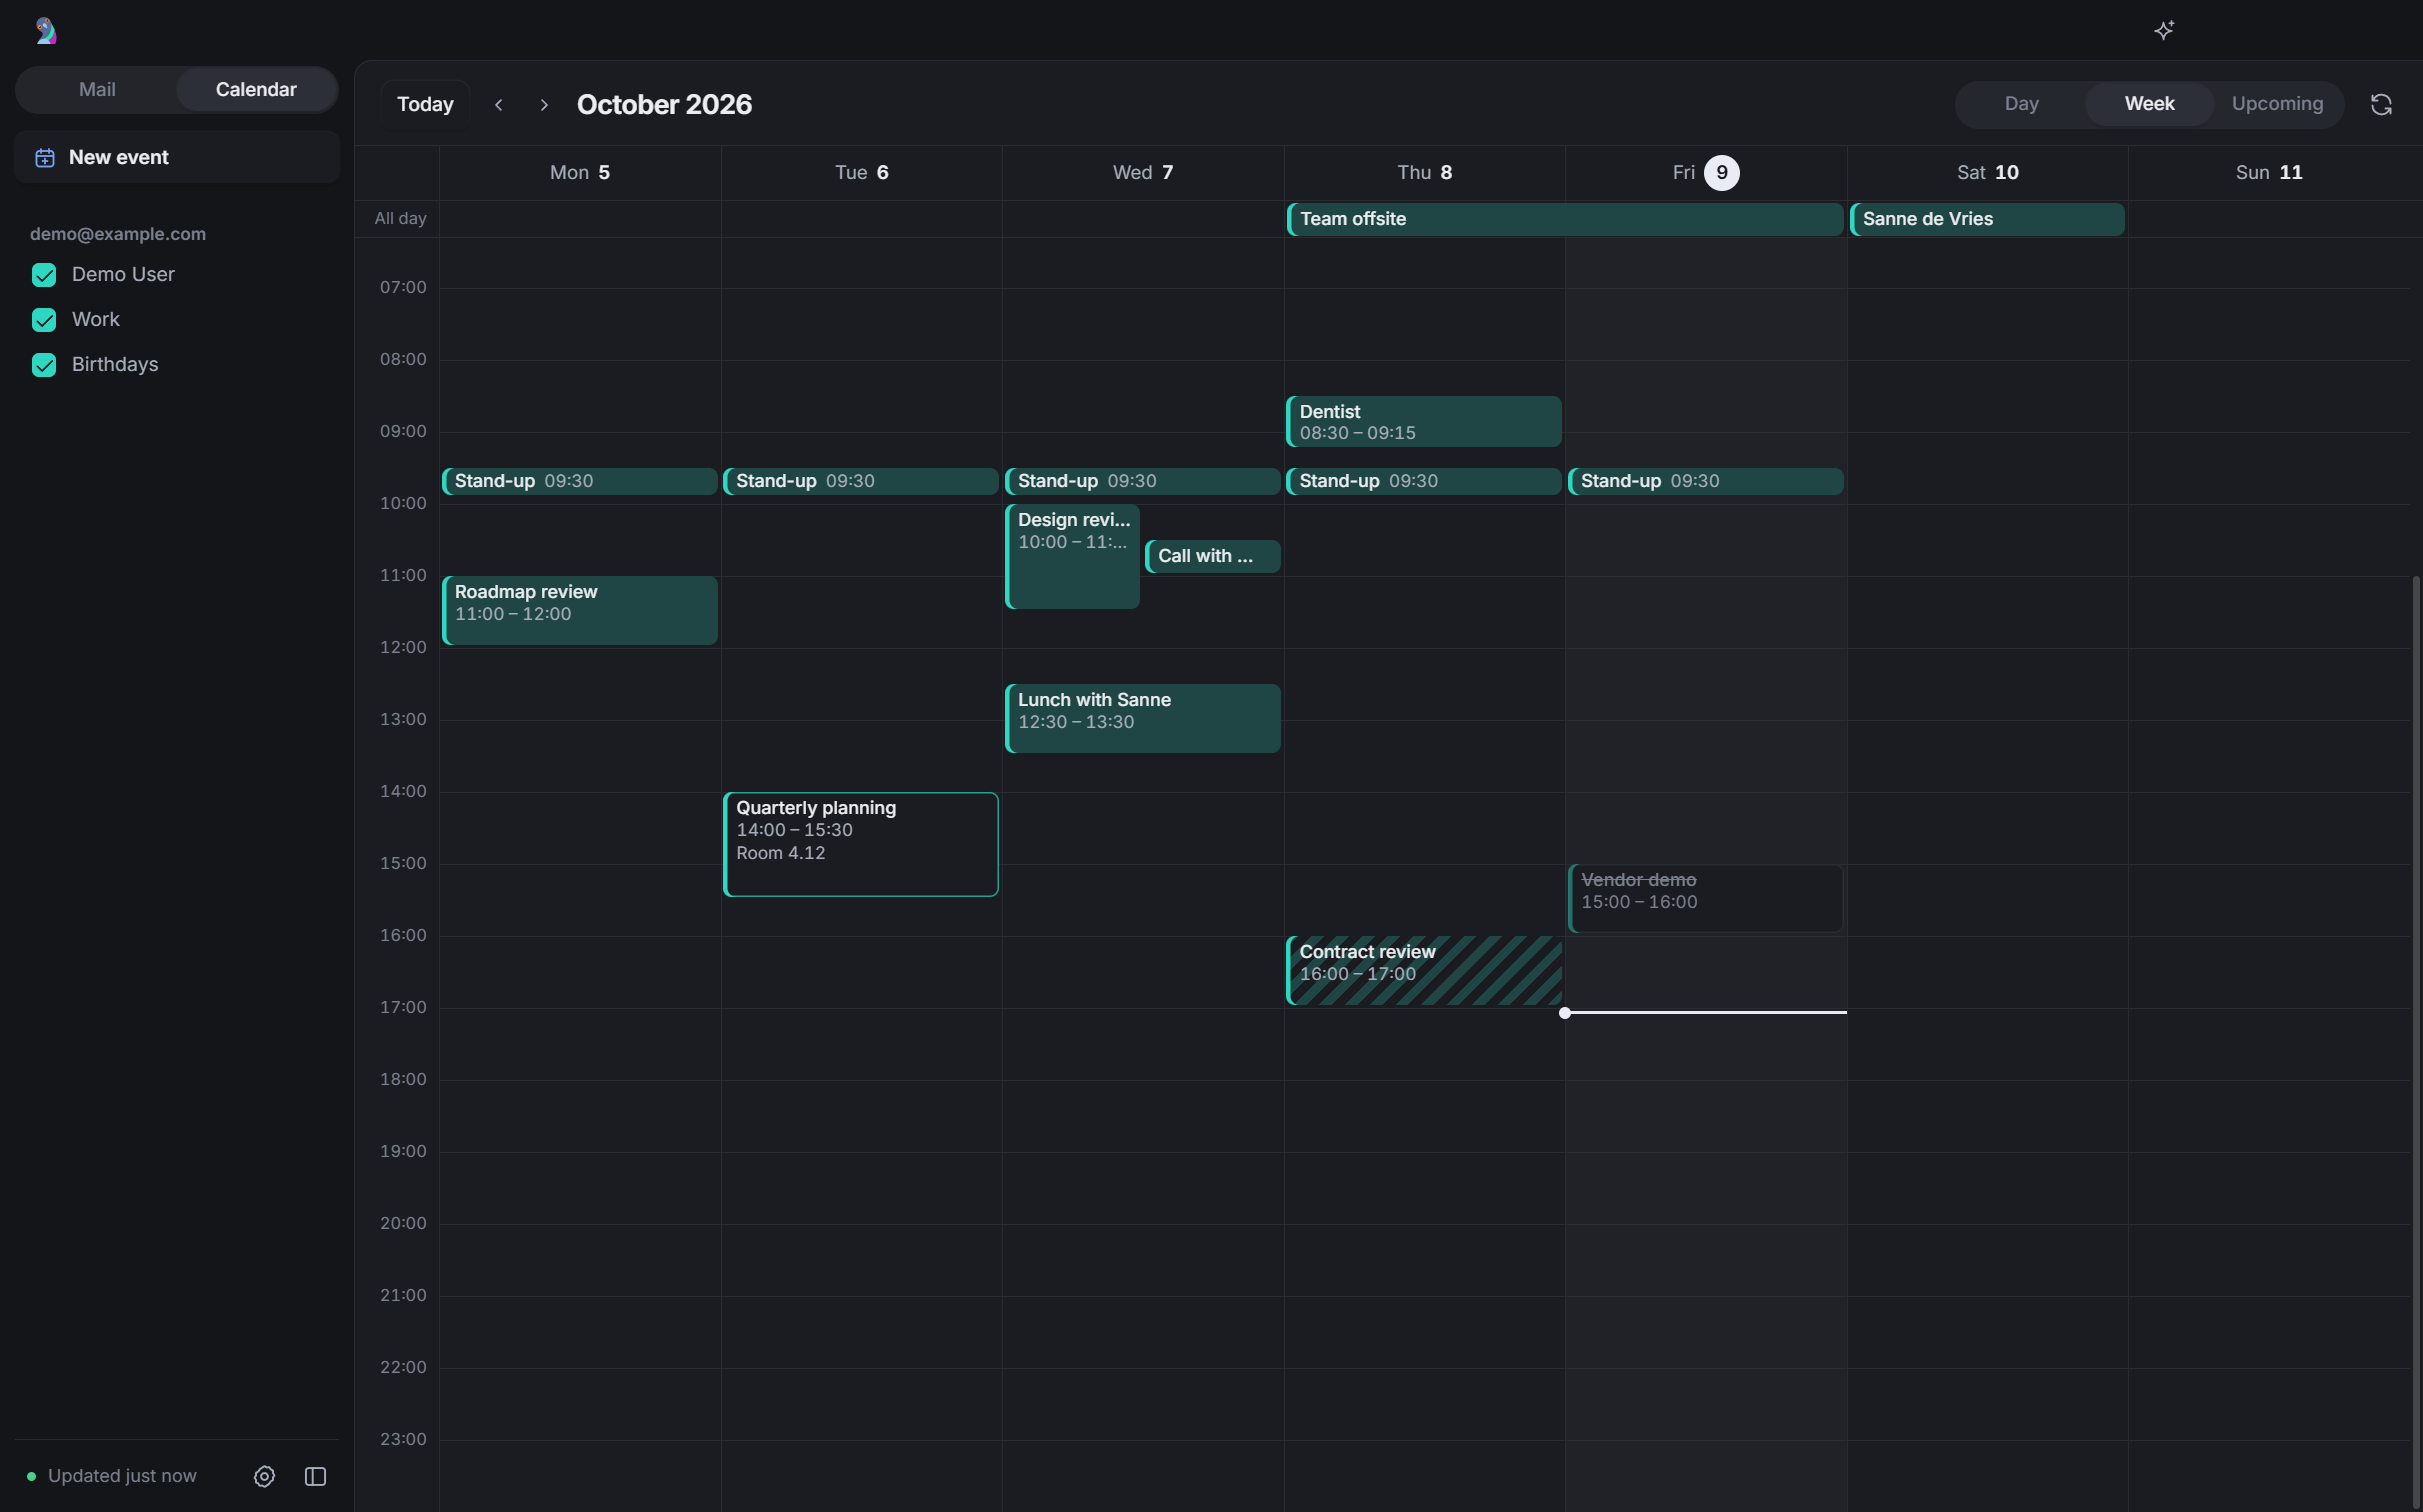
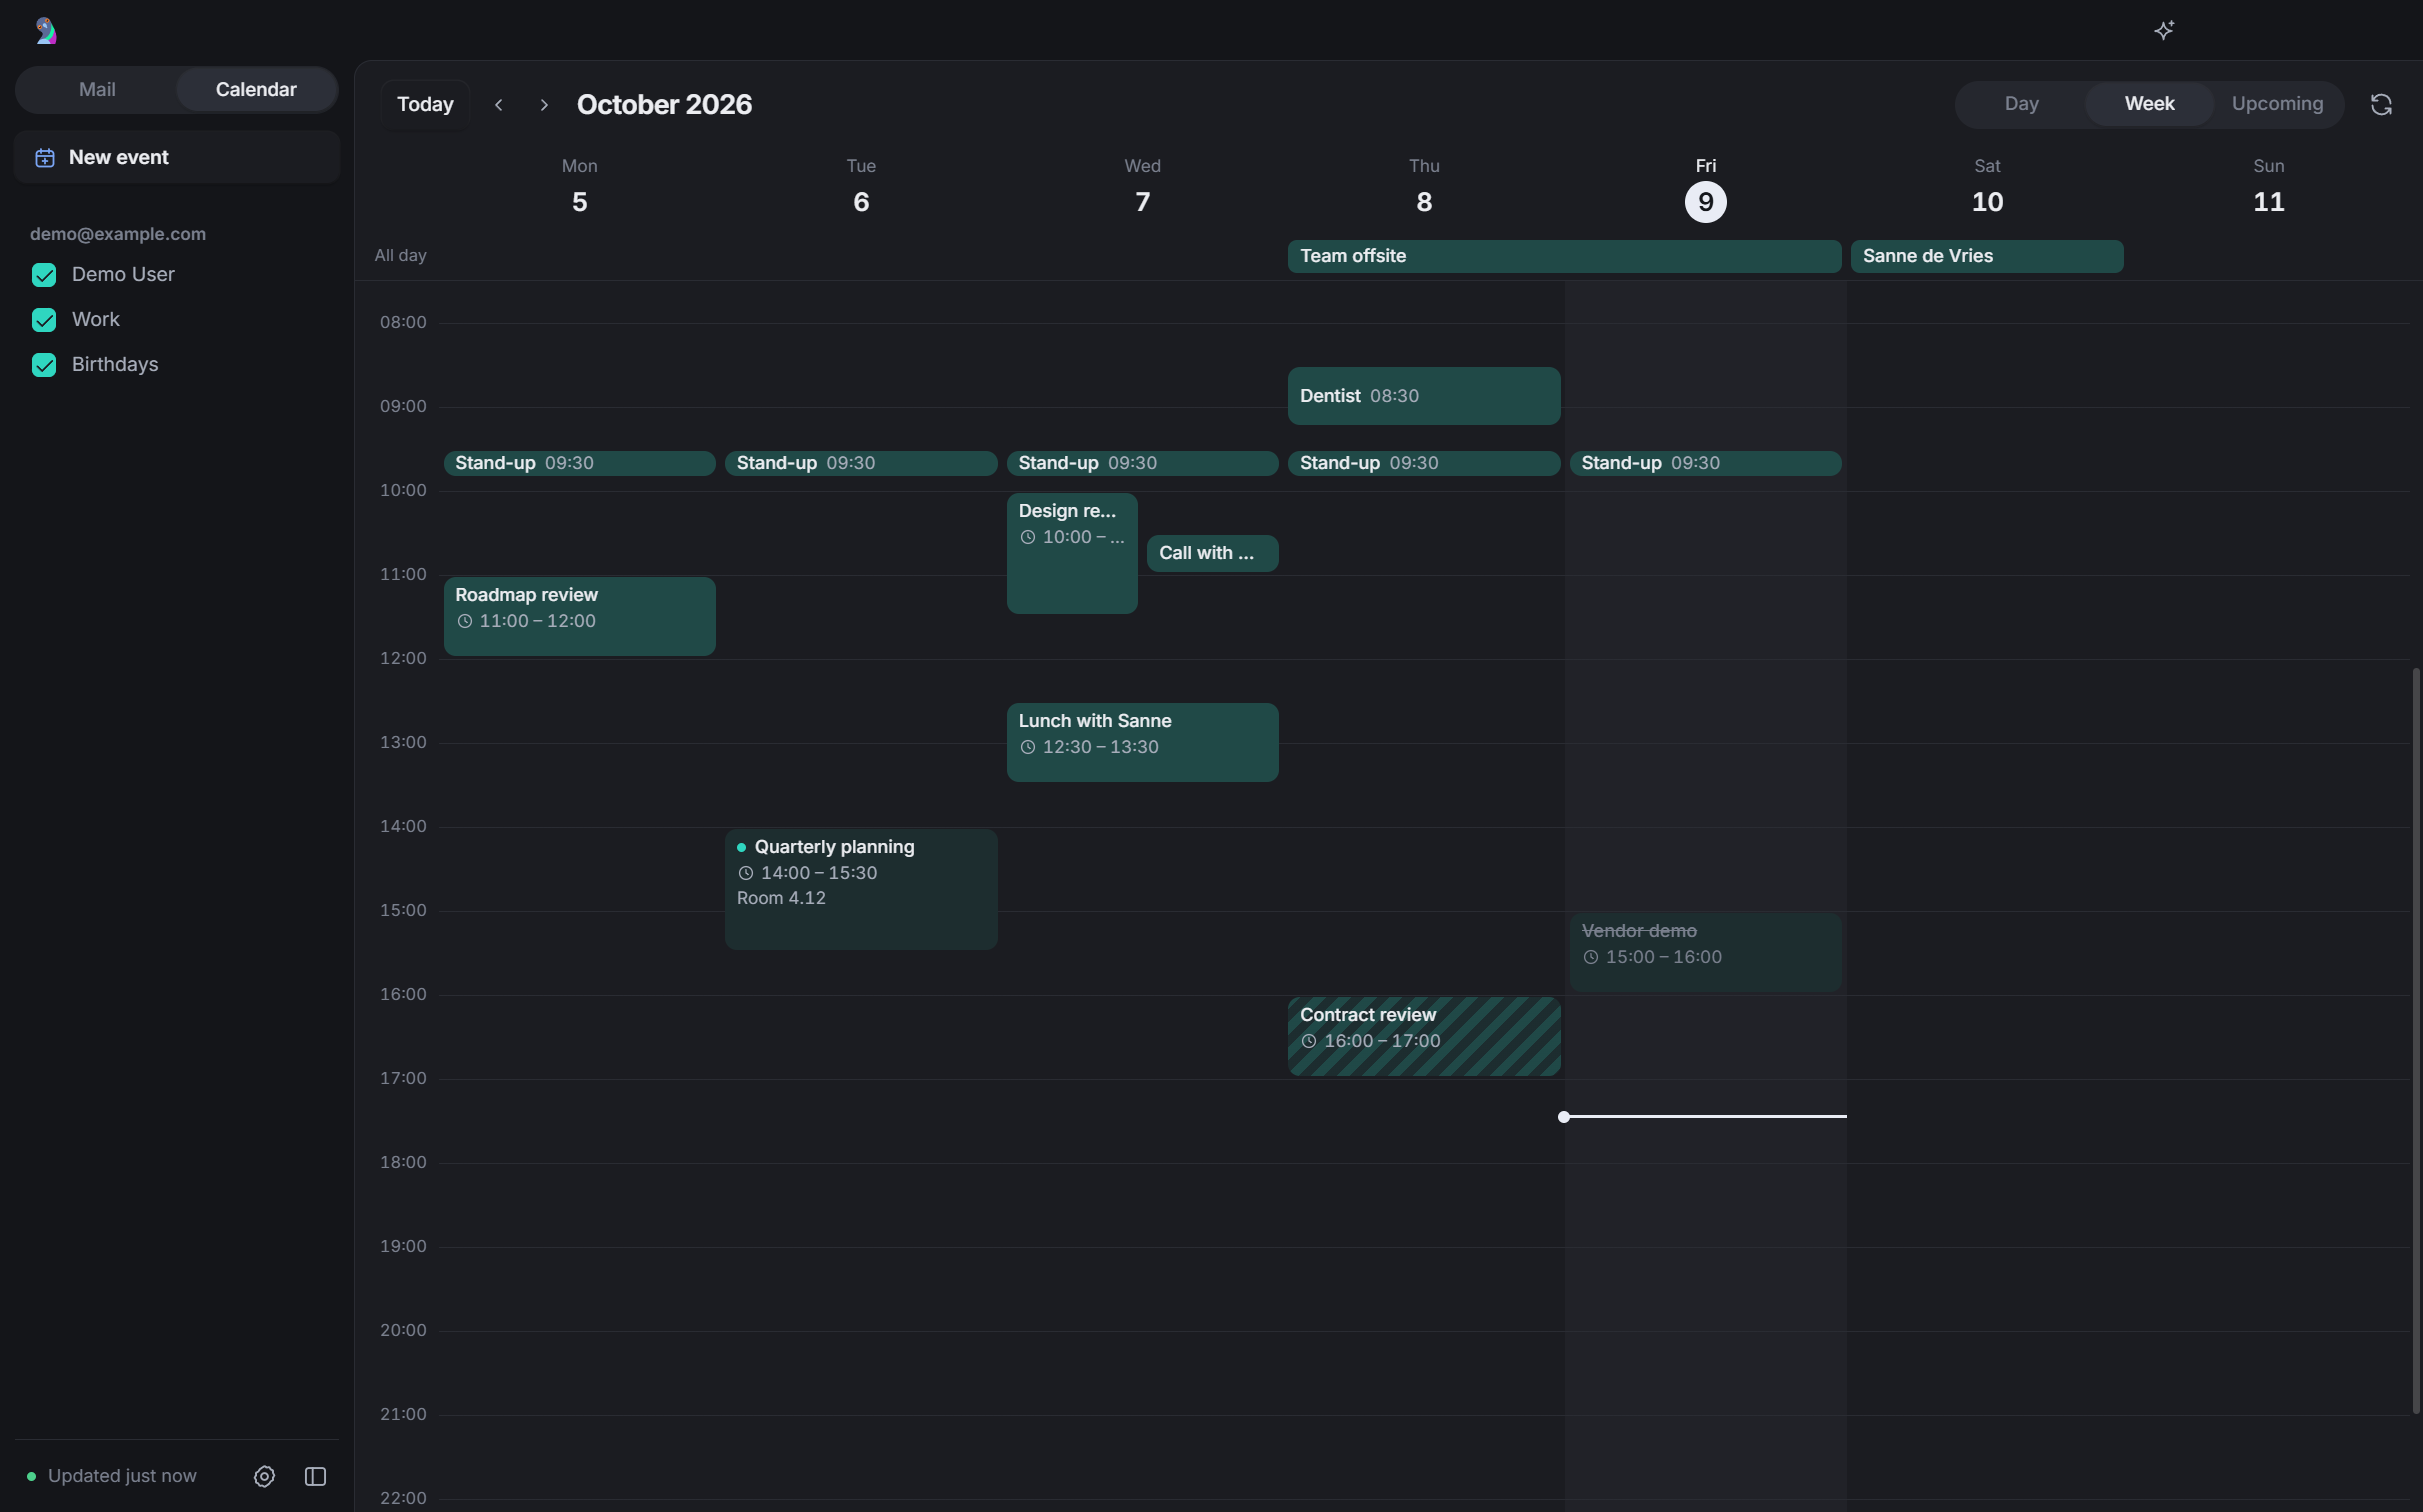
Draw calendar events as soft cards
Events and all-day chips are tinted cards in their account's colour,
with rounded corners and room around them, instead of an edge bar and
outlines. An unanswered invitation is a pale card with a dot before
its title, and the open event gets a deeper tint, a lift and full-ink
text. The days lose their vertical lines, the day headers put the
weekday above a larger date, an hour is 56px tall, and the grid opens
at 07:30 unless the line for now would be off screen.

diff --git a/src/renderer/styles.css b/src/renderer/styles.css
@@ -3594,16 +3594,18 @@ body.calendar-mode .titlebar-search {
 }
 .cal-days {
   overflow: hidden;
-  border-top: 1px solid var(--border);
+  padding: 2px 0 4px;
 }
 .cal-dayhead {
-  height: 36px;
+  height: 54px;
+  margin: 0 3px;
+  border-radius: var(--radius);
   display: flex;
+  flex-direction: column;
   align-items: center;
   justify-content: center;
-  gap: 6px;
+  gap: 2px;
   min-width: 0;
-  border-left: 1px solid var(--border);
   font-size: 12.5px;
   color: var(--text-2);
   white-space: nowrap;
@@ -3614,28 +3616,37 @@ body.calendar-mode .titlebar-search {
   color: var(--text);
   background: var(--hover);
 }
+.cal-dayhead .dow {
+  font-size: 11.5px;
+  color: var(--text-3);
+}
 .cal-dayhead .dom {
-  height: 24px;
+  height: 28px;
+  min-width: 28px;
+  padding: 0 6px;
   border-radius: 9999px;
   display: grid;
   place-items: center;
+  font-size: 17px;
   font-weight: 600;
+  letter-spacing: -0.01em;
   color: var(--text);
   font-variant-numeric: tabular-nums;
 }
+.cal-dayhead.today .dow {
+  color: var(--text);
+}
 .cal-dayhead.today .dom {
-  min-width: 24px;
-  padding: 0 4px;
   background: var(--primary);
   color: var(--on-primary);
 }
 
 .cal-allday {
-  grid-auto-rows: 24px;
-  max-height: 77px;
-  min-height: 25px;
+  grid-auto-rows: 26px;
+  max-height: 84px;
+  min-height: 30px;
+  padding: 1px 0 3px;
   overflow-y: auto;
-  border-top: 1px solid var(--border);
   border-bottom: 1px solid var(--border);
 }
 .cal-allday-label {
@@ -3649,38 +3660,44 @@ body.calendar-mode .titlebar-search {
   white-space: nowrap;
 }
 .cal-allday-cell {
-  border-left: 1px solid var(--border);
   cursor: pointer;
 }
 
+/* Events are soft cards in their account's colour: a tint, rounded corners and a little room around each, no
+   edges. How strong the tint is depends on the theme and on the answer to an invitation. */
+.calendar,
+.cal-pop {
+  --ev: 24%;
+  --ev-hover: 32%;
+  --ev-pale: 9%;
+  --ev-open: 40%;
+}
+:root.light .calendar,
+:root.light .cal-pop {
+  --ev: 16%;
+  --ev-hover: 23%;
+  --ev-pale: 7%;
+  --ev-open: 30%;
+}
 .cal-chip,
 .cal-ev {
-  --tint: color-mix(in srgb, var(--c) 22%, var(--panel));
+  --tint: color-mix(in srgb, var(--c) var(--ev), var(--panel));
   background: var(--tint);
-  box-shadow: inset 3px 0 0 var(--c);
   color: var(--text);
   text-align: left;
   transition: background-color 120ms ease;
 }
-:root.light .cal-chip,
-:root.light .cal-ev {
-  --tint: color-mix(in srgb, var(--c) 15%, var(--panel));
-}
 .cal-chip:hover,
 .cal-ev:hover {
-  --tint: color-mix(in srgb, var(--c) 32%, var(--panel));
-}
-:root.light .cal-chip:hover,
-:root.light .cal-ev:hover {
-  --tint: color-mix(in srgb, var(--c) 24%, var(--panel));
+  --tint: color-mix(in srgb, var(--c) var(--ev-hover), var(--panel));
 }
 .cal-chip {
   position: relative;
   z-index: 1;
   min-width: 0;
   height: 22px;
-  margin: 1px 2px;
-  padding: 0 6px 0 9px;
+  margin: 2px 3px;
+  padding: 0 8px;
   border-radius: 6px;
   display: flex;
   align-items: center;
@@ -3723,11 +3740,12 @@ body.calendar-mode .titlebar-search {
   color: var(--text-3);
   font-variant-numeric: tabular-nums;
 }
+/* Only the hours are ruled; the days are told apart by the room between their events. */
 .cal-col {
   position: relative;
-  border-left: 1px solid var(--border);
+  container-type: inline-size;
   background-image: linear-gradient(var(--border) 1px, transparent 1px);
-  background-size: 100% 48px;
+  background-size: 100% 56px;
   cursor: pointer;
 }
 .cal-col.today {
@@ -3738,12 +3756,12 @@ body.calendar-mode .titlebar-search {
   z-index: 1;
   display: flex;
   flex-direction: column;
-  padding: 3px 6px 3px 9px;
-  border-radius: 6px;
+  gap: 2px;
+  padding: 5px 8px;
+  border-radius: 8px;
   overflow: hidden;
   font-size: 12px;
   line-height: 15px;
-  outline-offset: -1px;
 }
 .cal-ev .t {
   font-weight: 500;
@@ -3752,12 +3770,26 @@ body.calendar-mode .titlebar-search {
   text-overflow: ellipsis;
 }
 .cal-ev .w {
+  display: flex;
+  align-items: center;
+  gap: 4px;
+  min-width: 0;
   font-size: 11.5px;
   color: var(--text-2);
   white-space: nowrap;
   overflow: hidden;
   text-overflow: ellipsis;
   font-variant-numeric: tabular-nums;
+}
+.cal-ev .w svg {
+  width: 12px;
+  height: 12px;
+  stroke-width: 1.8;
+  flex: none;
+}
+.cal-ev .w > span {
+  overflow: hidden;
+  text-overflow: ellipsis;
 }
 .cal-ev.short {
   flex-direction: row;
@@ -3770,26 +3802,45 @@ body.calendar-mode .titlebar-search {
   flex: 0 1 auto;
   min-width: 2.5em;
 }
-/* Where a short event is narrow, its time gives way before its title. */
+/* Where a short event is narrow, its time gives way before its title, and in a narrow day it goes. */
 .cal-ev.short .w {
   flex: 0 100 auto;
   min-width: 0;
   text-overflow: clip;
 }
-/* An invitation that waits for an answer is drawn as an outline; maybe is striped; declined is struck through. */
+@container (max-width: 140px) {
+  .cal-ev.short .w {
+    display: none;
+  }
+}
+/* An invitation that waits for an answer is a pale card with a dot in the account's colour before its title;
+   maybe is striped; declined fades and is struck through. */
 .cal-ev.needs,
 .cal-chip.needs {
-  background: var(--panel);
-  box-shadow: inset 3px 0 0 var(--c), inset 0 0 0 1px color-mix(in srgb, var(--c) 70%, transparent);
+  --tint: color-mix(in srgb, var(--c) var(--ev-pale), var(--panel));
+}
+.cal-ev.needs:hover,
+.cal-chip.needs:hover {
+  --tint: color-mix(in srgb, var(--c) var(--ev), var(--panel));
+}
+.cal-ev.needs .t::before,
+.cal-chip.needs .t::before {
+  content: '';
+  display: inline-block;
+  width: 6px;
+  height: 6px;
+  margin-right: 6px;
+  border-radius: 50%;
+  background: var(--c);
+  vertical-align: 1px;
 }
 .cal-ev.maybe,
 .cal-chip.maybe {
-  background: repeating-linear-gradient(135deg, var(--tint) 0 6px, var(--panel) 6px 12px);
+  background: repeating-linear-gradient(135deg, var(--tint) 0 6px, color-mix(in srgb, var(--c) var(--ev-pale), var(--panel)) 6px 12px);
 }
 .cal-ev.declined,
 .cal-chip.declined {
-  background: var(--panel);
-  box-shadow: inset 3px 0 0 color-mix(in srgb, var(--c) 45%, transparent), inset 0 0 0 1px var(--border);
+  --tint: color-mix(in srgb, var(--c) var(--ev-pale), var(--panel));
   color: var(--text-3);
 }
 .cal-ev.declined .t,
@@ -3799,10 +3850,17 @@ body.calendar-mode .titlebar-search {
 .cal-ev.declined .w {
   color: var(--text-3);
 }
+/* The event whose card is open stands out by a deeper tint and a lift. On the deeper tint every line uses the
+   full ink, a declined one too; its strike-through still says it is declined. */
 .cal-ev.open,
 .cal-chip.open {
   z-index: 2;
-  box-shadow: inset 3px 0 0 var(--c), 0 0 0 2px var(--c);
+  --tint: color-mix(in srgb, var(--c) var(--ev-open), var(--panel));
+  box-shadow: var(--shadow-sm);
+  color: var(--text);
+}
+.cal-ev.open .w {
+  color: var(--text);
 }
 .cal-now {
   position: absolute;

diff --git a/src/renderer/calendar.js b/src/renderer/calendar.js
@@ -8,7 +8,7 @@ import { api, esc, $, $$, hhmm, toast, dialog, choiceDialog, confirmDialog, segm
 
 const DAY = 86400000;
 // The grid: pixels per hour, and the least an event is drawn, so a short one still shows its title.
-const HOUR = 48;
+const HOUR = 56;
 const MIN_EVENT = 20;
 const UPCOMING_DAYS = 30;
 // A week narrower than this shows its day instead: seven columns would be too narrow to read.
@@ -375,14 +375,18 @@ function render() {
   }
 }
 
-// Where the grid opens: an hour or two before now on today, otherwise the start of the working day.
+// Where the grid opens: at the start of the working day.
 // The Upcoming list opens at its top.
 function workingDayTop(view, height) {
   if (view === 'upcoming') return 0;
   const r = range(view);
   const now = Date.now();
-  const hours = now >= r.start && now < r.end ? Math.max(0, minutes(now) / 60 - 2) : 7.5;
-  return Math.min(hours * HOUR, 24 * HOUR - height);
+  const start = 7.5 * HOUR;
+  const nowTop = (minutes(now) * HOUR) / 60;
+  let top = start;
+  // Late in the day, the line for now still has to be on screen; then it sits about two thirds down.
+  if (now >= r.start && now < r.end && nowTop > start + height - 16) top = nowTop - height * 0.66;
+  return Math.max(0, Math.min(top, 24 * HOUR - height));
 }
 
 function stateClass(e) {
@@ -506,16 +510,19 @@ function layoutDay(segs) {
   return segs;
 }
 
+// An event in the grid: a card a pixel inside its slot and a few pixels in from the day's edges, so neighbours
+// and back-to-back events stay apart without borders.
 function eventHtml(s) {
   const e = s.e;
-  const top = (s.top * HOUR) / 60;
-  const height = Math.max(((s.bottom - s.top) * HOUR) / 60, MIN_EVENT) - 2;
-  const short = height < 34;
+  const top = (s.top * HOUR) / 60 + 1;
+  const height = Math.max(((s.bottom - s.top) * HOUR) / 60, MIN_EVENT) - 3;
+  // Two lines need 42px; below that the title and start time share one.
+  const short = height < 42;
   const left = (s.col / s.cols) * 100;
   const width = (s.span / s.cols) * 100;
-  const time = short ? hhmm(e.start) : `${hhmm(e.start)} – ${hhmm(e.end)}`;
-  return `<button class="cal-ev ${stateClass(e)} ${short ? 'short' : ''}" data-ev="${esc(e.id)}" style="top:${top}px;height:${height}px;left:calc(${left}% + 1px);width:calc(${width}% - 3px);--c:${colorOf(e.accountId)}" aria-label="${esc(ariaLabel(e))}">
-    <span class="t">${esc(titleOf(e))}</span><span class="w">${esc(time)}</span>${!short && e.location && height >= 52 ? `<span class="w">${esc(e.location)}</span>` : ''}</button>`;
+  const time = short ? `<span class="w">${esc(hhmm(e.start))}</span>` : `<span class="w">${icons.clock}<span>${esc(`${hhmm(e.start)} – ${hhmm(e.end)}`)}</span></span>`;
+  return `<button class="cal-ev ${stateClass(e)} ${short ? 'short' : ''}" data-ev="${esc(e.id)}" style="top:${top}px;height:${height}px;left:calc(${left}% + 3px);width:calc(${width}% - 6px);--c:${colorOf(e.accountId)}" aria-label="${esc(ariaLabel(e))}">
+    <span class="t">${esc(titleOf(e))}</span>${time}${!short && e.location && height >= 59 ?`<span class="w"><span>${esc(e.location)}</span></span>` : ''}</button>`;
 }
 
 function listHtml() {

diff --git a/test/e2e/calendar.spec.js b/test/e2e/calendar.spec.js
@@ -115,7 +115,7 @@ test('creates, edits and deletes an event', async () => {
   await win.locator('.cal-scroll').evaluate((el) => (el.scrollTop = 0));
   const col = win.locator('.cal-col').nth(2);
   const box = await col.boundingBox();
-  await win.mouse.click(box.x + 20, box.y + 6 * 48 + 30);
+  await win.mouse.click(box.x + 20, box.y + 6 * 56 + 30);
   await expect(win.locator('.cal-form [name="startTime"]')).toHaveValue('06:30');
   await expect(win.locator('.cal-form [name="endTime"]')).toHaveValue('07:30');
   await win.keyboard.press('Escape');
